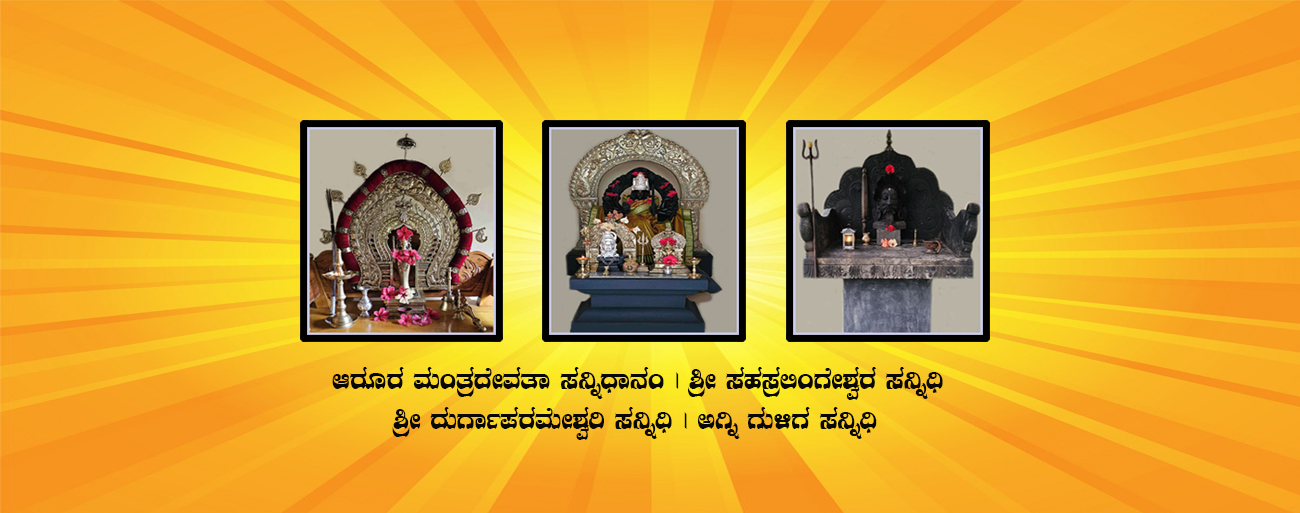
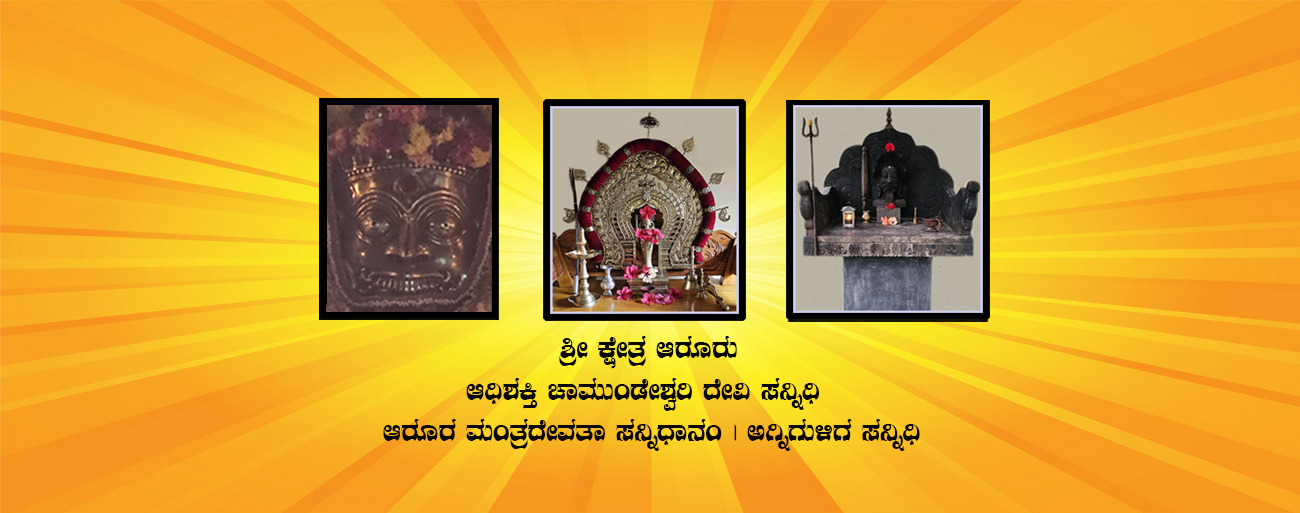
update
update

Changed region(s): [[0.2154, 0.1871, 0.7692, 0.8733]]

diff --git a/slider/slider.html b/slider/slider.html
@@ -88,20 +88,20 @@
                         </li>
                         <!-- LAYER NR. 3 -->
                         
-                         <!-- SLIDE  -->
+                         <!-- SLIDE 
                          <li data-transition="slidedown" data-slotamount="7" data-masterspeed="800" data-saveperformance="off">
-                            <!-- MAIN IMAGE --><img src="images/4.jpg" alt="slider1" data-bgposition="center center" data-bgrepeat="no-repeat" data-kenburns="on" data-duration="7000" data-ease="Linear.easeNone" data-bgfit="100" data-bgfitend="105">
+                            <!-- MAIN IMAGE <img src="images/4.jpg" alt="slider1" data-bgposition="center center" data-bgrepeat="no-repeat" data-kenburns="on" data-duration="7000" data-ease="Linear.easeNone" data-bgfit="100" data-bgfitend="105">
                             <!-- LAYERS -->
                             <!-- LAYERS -->
                             <!-- LAYER NR. 1 -->
                             <!--<div class="tp-caption tp-resizeme " data-x="left" data-hoffset="50" data-y="bottom" data-voffset="-200" data-speed="800" data-start="1000" data-easing="Quad.easeOut" data-splitin="word" data-splitout="none" data-elementdelay="0.1" data-endelementdelay="0.1" data-endspeed="300" data-endeasing="Quad.easeOut" style="z-index: 5; min-width:500px; max-width:900px;  white-space: normal;text-transform:uppercase; font-size:25px; line-height:60px; font-weight: 700; color: #fff;font-family:Open Sans;text-align:center;    background: linear-gradient(to right, #F37A21, #F5B259 20px, #F5B259 13px, #F37A21 38px, #F37A21 40%, #F8931F 60%);letter-spacing: 2px;text-shadow: 1px 1px 2px #000000;"></div>
                             <!-- LAYER NR. 2 -->
                             <!--<div class="tp-caption tp-resizeme" data-x="left" data-hoffset="50" data-y="bottom" data-voffset="-140" data-speed="1000" data-start="1500" data-easing="Quad.easeOut" data-splitin="word" data-splitout="none" data-elementdelay="0.1" data-endelementdelay="0.1" data-endspeed="300" data-endeasing="Quad.easeOut" style="z-index: 6; min-width: 499px; max-width: 472px; max-width: 66px; max-width: 66px; white-space: normal;text-transform:uppercase; font-size: 20px; line-height: 60px; font-weight: 700;
-                                         color: #2e2e2e;font-family:Open Sans;text-align:center;background-color:rgba(255,255,255, 0.68);text-shadow: 1px 1px 2px #ccc;"></div> -->
+                                         color: #2e2e2e;font-family:Open Sans;text-align:center;background-color:rgba(255,255,255, 0.68);text-shadow: 1px 1px 2px #ccc;"></div> 
                         </li>
-                        <!-- SLIDE  -->
+                         SLIDE  -->
                         <li data-transition="slidedown" data-slotamount="7" data-masterspeed="800" data-saveperformance="off">
-                            <!-- MAIN IMAGE --><img src="images/5.jpg" alt="slider1" data-bgposition="center center" data-bgrepeat="no-repeat" data-kenburns="on" data-duration="7000" data-ease="Linear.easeNone" data-bgfit="100" data-bgfitend="105">
+                            <!-- MAIN IMAGE --><img src="images/4.jpg" alt="slider1" data-bgposition="center center" data-bgrepeat="no-repeat" data-kenburns="on" data-duration="7000" data-ease="Linear.easeNone" data-bgfit="100" data-bgfitend="105">
                             <!-- LAYERS -->
                             <!-- LAYERS -->
                             <!-- LAYER NR. 1 -->
@@ -110,31 +110,31 @@
                             <!-- <div class="tp-caption tp-resizeme mob-space1" data-x="left" data-hoffset="50" data-y="bottom" data-voffset="-140" data-speed="1000" data-start="1500" data-easing="Quad.easeOut" data-splitin="word" data-splitout="none" data-elementdelay="0.1" data-endelementdelay="0.1" data-endspeed="300" data-endeasing="Quad.easeOut" style="z-index: 6; min-width: 499px; max-width: 472px; max-width: 66px; max-width: 66px; white-space: normal;text-transform:uppercase; font-size: 15px; line-height: 60px; font-weight: 700;
                                          color: #2e2e2e;font-family:Open Sans;text-align:center;background-color:rgba(255,255,255, 0.68);text-shadow: 1px 1px 2px #ccc;"></div> -->
                         </li>
-                        <!-- SLIDE  -->
+                        <!-- SLIDE
                         <li data-transition="slidedown" data-slotamount="7" data-masterspeed="800" data-saveperformance="off">
-                            <!-- MAIN IMAGE --><img src="images/6.jpg" alt="slider1" data-bgposition="center center" data-bgrepeat="no-repeat" data-kenburns="on" data-duration="7000" data-ease="Linear.easeNone" data-bgfit="100" data-bgfitend="105">
+                            <!-- MAIN IMAGE <img src="images/6.jpg" alt="slider1" data-bgposition="center center" data-bgrepeat="no-repeat" data-kenburns="on" data-duration="7000" data-ease="Linear.easeNone" data-bgfit="100" data-bgfitend="105">
                             <!-- LAYERS -->
                             <!-- LAYERS -->
                             <!-- LAYER NR. 1 -->
                             <!-- <div class="tp-caption tp-resizeme " data-x="left" data-hoffset="50" data-y="bottom" data-voffset="-200" data-speed="800" data-start="1000" data-easing="Quad.easeOut" data-splitin="word" data-splitout="none" data-elementdelay="0.1" data-endelementdelay="0.1" data-endspeed="300" data-endeasing="Quad.easeOut" style="z-index: 5; min-width:500px; max-width:900px;  white-space: normal;text-transform:uppercase; font-size:25px; line-height:60px; font-weight: 700; color: #fff;font-family:Open Sans;text-align:center;    background: linear-gradient(to right, #F37A21, #F5B259 20px, #F5B259 13px, #F37A21 38px, #F37A21 40%, #F8931F 60%);text-shadow: 1px 1px 2px #000000;"></div>
                             <!-- LAYER NR. 2 -->
                             <!-- <div class="tp-caption tp-resizeme" data-x="left" data-hoffset="50" data-y="bottom" data-voffset="-140" data-speed="1000" data-start="1500" data-easing="Quad.easeOut" data-splitin="word" data-splitout="none" data-elementdelay="0.1" data-endelementdelay="0.1" data-endspeed="300" data-endeasing="Quad.easeOut" style="z-index: 6; min-width: 499px; max-width: 472px; max-width: 66px; max-width: 66px; white-space: normal;text-transform:uppercase; font-size: 20px; line-height: 60px; font-weight: 700;
-                                         color: #2e2e2e;font-family:Open Sans;text-align:center;background-color:rgba(255,255,255, 0.68);text-shadow: 1px 1px 2px #ccc;"></div> -->
+                                         color: #2e2e2e;font-family:Open Sans;text-align:center;background-color:rgba(255,255,255, 0.68);text-shadow: 1px 1px 2px #ccc;"></div>
                         </li>
-                        <!-- SLIDE  -->
+                        SLIDE 
                         <li data-transition="slidedown" data-slotamount="7" data-masterspeed="800" data-saveperformance="off">
-                            <!-- MAIN IMAGE --><img src="images/7.jpg" alt="slider1" data-bgposition="center center" data-bgrepeat="no-repeat" data-kenburns="on" data-duration="7000" data-ease="Linear.easeNone" data-bgfit="100" data-bgfitend="105">
+                            <!-- MAIN IMAGE <img src="images/7.jpg" alt="slider1" data-bgposition="center center" data-bgrepeat="no-repeat" data-kenburns="on" data-duration="7000" data-ease="Linear.easeNone" data-bgfit="100" data-bgfitend="105">
                             <!-- LAYERS -->
                             <!-- LAYERS -->
                             <!-- LAYER NR. 1 -->
                             <!-- <div class="tp-caption tp-resizeme " data-x="left" data-hoffset="50" data-y="bottom" data-voffset="-200" data-speed="800" data-start="1000" data-easing="Quad.easeOut" data-splitin="word" data-splitout="none" data-elementdelay="0.1" data-endelementdelay="0.1" data-endspeed="300" data-endeasing="Quad.easeOut" style="z-index: 5; min-width:500px; max-width:900px;  white-space: normal;text-transform:uppercase; font-size:25px; line-height:60px; font-weight: 700; color: #fff;font-family:Open Sans;text-align:center;    background: linear-gradient(to right, #F37A21, #F5B259 20px, #F5B259 13px, #F37A21 38px, #F37A21 40%, #F8931F 60%);text-shadow: 1px 1px 2px #000000;"></div>
                             <!-- LAYER NR. 2 -->
                             <!-- <div class="tp-caption tp-resizeme" data-x="left" data-hoffset="50" data-y="bottom" data-voffset="-140" data-speed="1000" data-start="1500" data-easing="Quad.easeOut" data-splitin="word" data-splitout="none" data-elementdelay="0.1" data-endelementdelay="0.1" data-endspeed="300" data-endeasing="Quad.easeOut" style="z-index: 6; min-width: 499px; max-width: 472px; max-width: 66px; max-width: 66px; white-space: normal;text-transform:uppercase; font-size: 20px; line-height: 60px; font-weight: 700;
-                                         color: #2e2e2e;font-family:Open Sans;text-align:center;background-color:rgba(255,255,255, 0.68);text-shadow: 1px 1px 2px #ccc;"></div> -->
+                                         color: #2e2e2e;font-family:Open Sans;text-align:center;background-color:rgba(255,255,255, 0.68);text-shadow: 1px 1px 2px #ccc;"></div> 
                         </li>
-                        <!-- SLIDE  -->
+                        SLIDE  -->
                         <li data-transition="slidedown" data-slotamount="7" data-masterspeed="800" data-saveperformance="off">
-                            <!-- MAIN IMAGE --><img src="images/8.png" alt="slider1" data-bgposition="center center" data-bgrepeat="no-repeat" data-kenburns="on" data-duration="7000" data-ease="Linear.easeNone" data-bgfit="100" data-bgfitend="105">
+                            <!-- MAIN IMAGE --><img src="images/5.png" alt="slider1" data-bgposition="center center" data-bgrepeat="no-repeat" data-kenburns="on" data-duration="7000" data-ease="Linear.easeNone" data-bgfit="100" data-bgfitend="105">
                             <!-- LAYERS -->
                             <!-- LAYERS -->
                             <!-- LAYER NR. 1 -->
@@ -145,7 +145,7 @@
                         </li>
                         <!-- SLIDE  -->
                         <li data-transition="slidedown" data-slotamount="7" data-masterspeed="800" data-saveperformance="off">
-                            <!-- MAIN IMAGE --><img src="images/9.jpg" alt="slider1" data-bgposition="center center" data-bgrepeat="no-repeat" data-kenburns="on" data-duration="7000" data-ease="Linear.easeNone" data-bgfit="100" data-bgfitend="105">
+                            <!-- MAIN IMAGE --><img src="images/6.jpg" alt="slider1" data-bgposition="center center" data-bgrepeat="no-repeat" data-kenburns="on" data-duration="7000" data-ease="Linear.easeNone" data-bgfit="100" data-bgfitend="105">
                             <!-- LAYERS -->
                             <!-- LAYERS -->
                             <!-- LAYER NR. 1 -->

diff --git a/index.html b/index.html
@@ -319,7 +319,7 @@
                 <div class="col-lg-4 col-lg-offset-1">
                     <div class="profile-card  animate-bottom">
                         <div class="founder-pic">
-                            <div class="user-icon1 id-prof-img img-bounds "> <img src="images/chamundeshwari.jpeg"> </div>
+                            <div class="user-icon1 id-prof-img img-bounds "> <img src="images/chamundeshwari.jpg"> </div>
                         </div>
                     </div>
                 </div>
